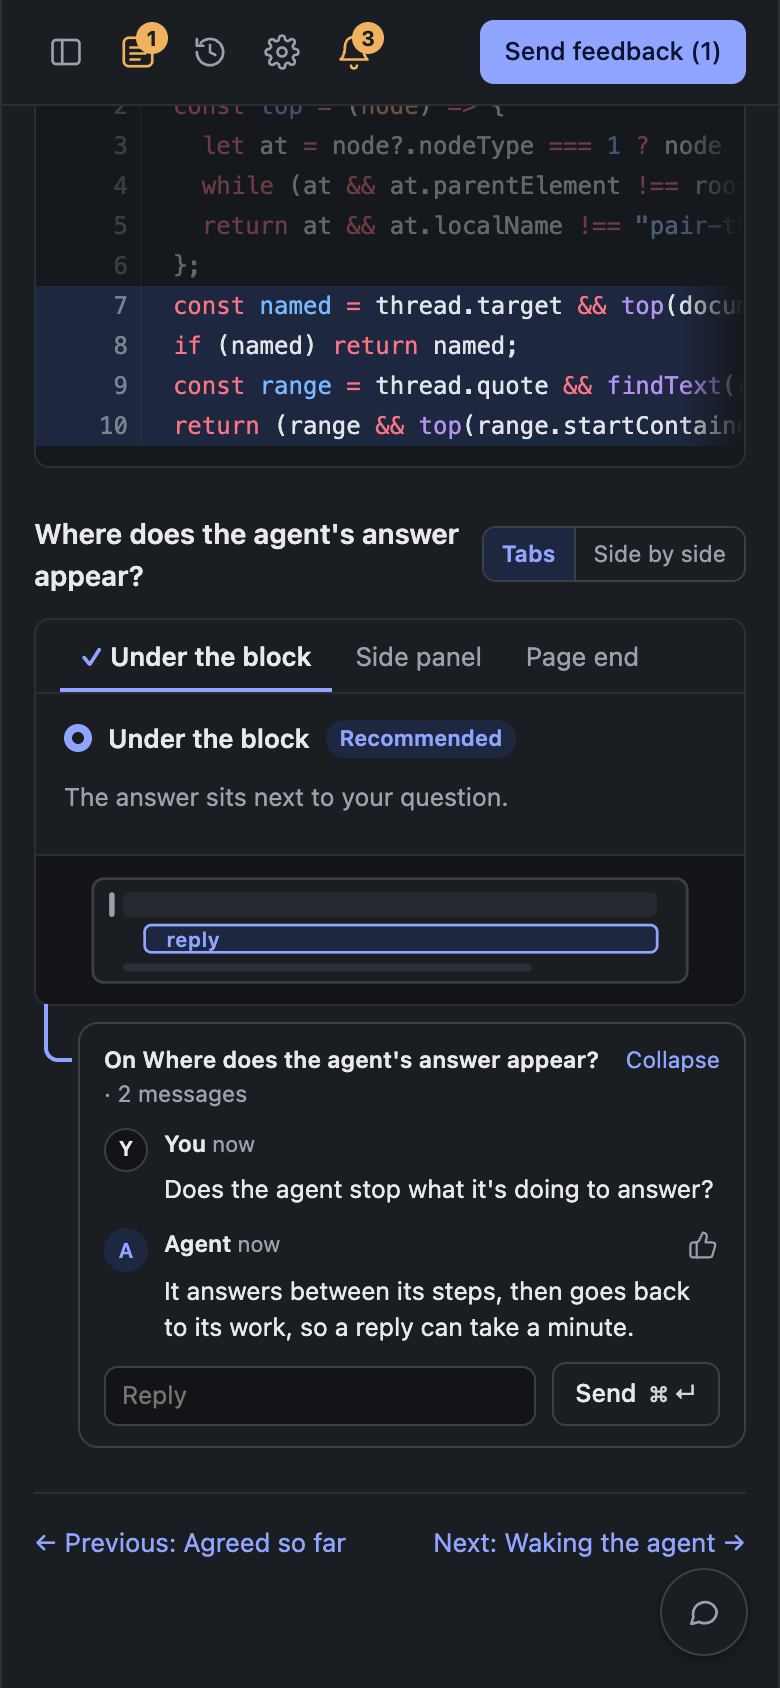
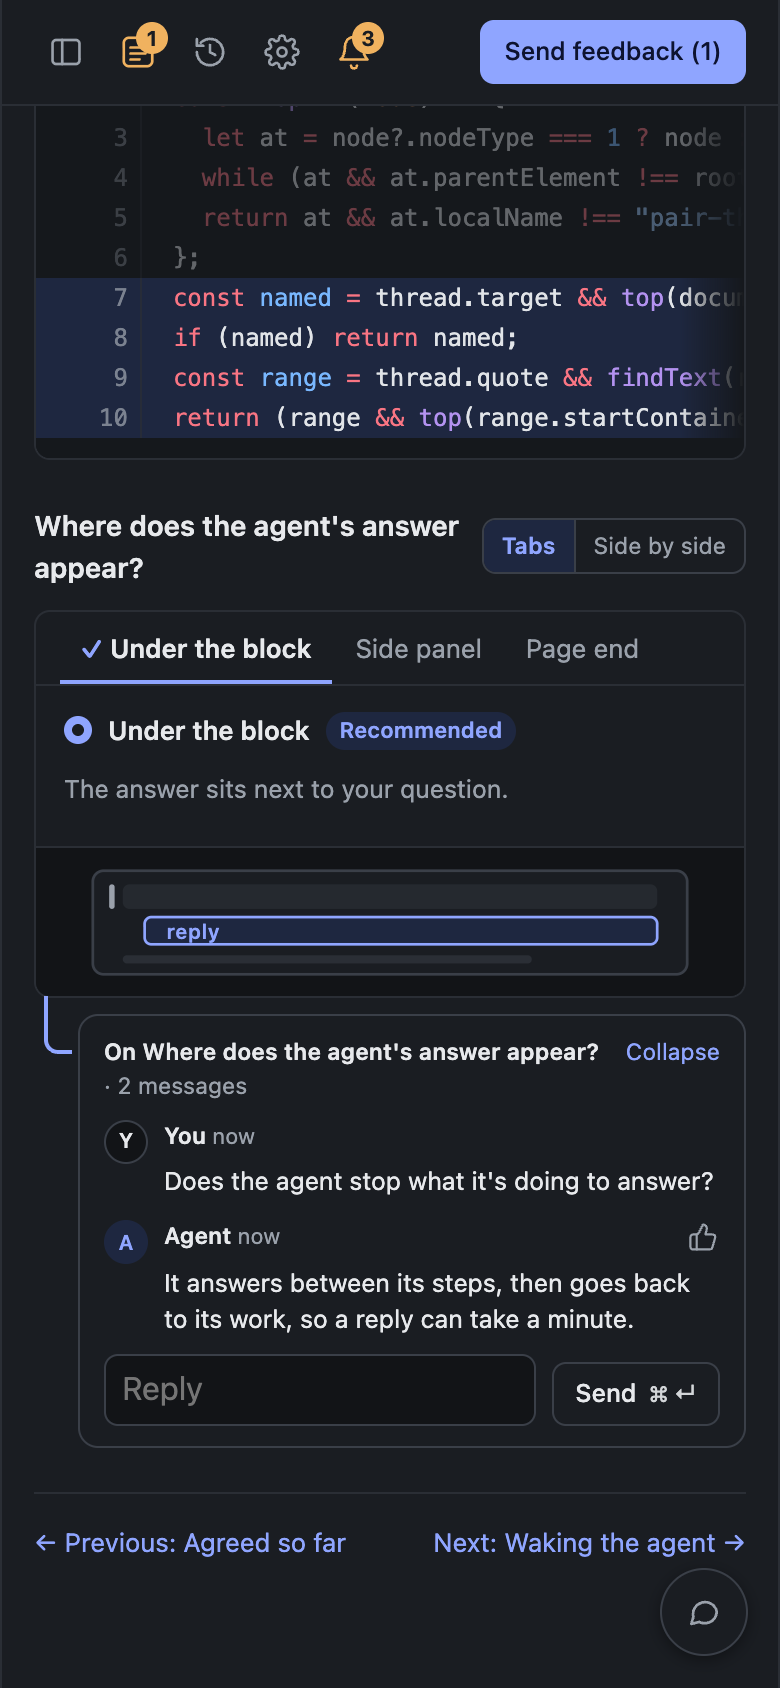
Keep every field at 16px on a phone or a touch screen
iOS Safari zooms the page into a focused field whose text is under 16px.
The frame set 16px on fields at 720px and narrower, but a thread's reply
box set its own 12.5px, which won, so replying in a thread on a phone
zoomed the page in. The 16px now applies to every field with !important,
on a touch screen of any width as well as a narrow window. A wide window
with a mouse keeps the fields' sizes.

The phone screenshot shows a reply box, so it is retaken with
npm run screenshots on macOS.

diff --git a/src/frame/app/base.css b/src/frame/app/base.css
@@ -357,6 +357,17 @@ textarea {
   color: var(--ink);
   font-size: var(--text-ui);
 }
+/* iOS Safari zooms the page into a focused field whose text is under
+   16px, so on a touch screen or a narrow window every field is 16px.
+   !important puts the size above any rule that sizes one field, such as a
+   thread's reply box. */
+@media (pointer: coarse), (max-width: 720px) {
+  input,
+  select,
+  textarea {
+    font-size: 16px !important;
+  }
+}
 :where(main, .sidebar, .pages-slot nav, .app-body) {
   scrollbar-width: thin;
   scrollbar-color: var(--line-strong) transparent;

diff --git a/src/frame/app/shell.css b/src/frame/app/shell.css
@@ -347,10 +347,4 @@ main {
     display: block;
     overflow: auto;
   }
-  /* iOS zooms into a field under 16px. */
-  input,
-  select,
-  textarea {
-    font-size: 16px;
-  }
 }
